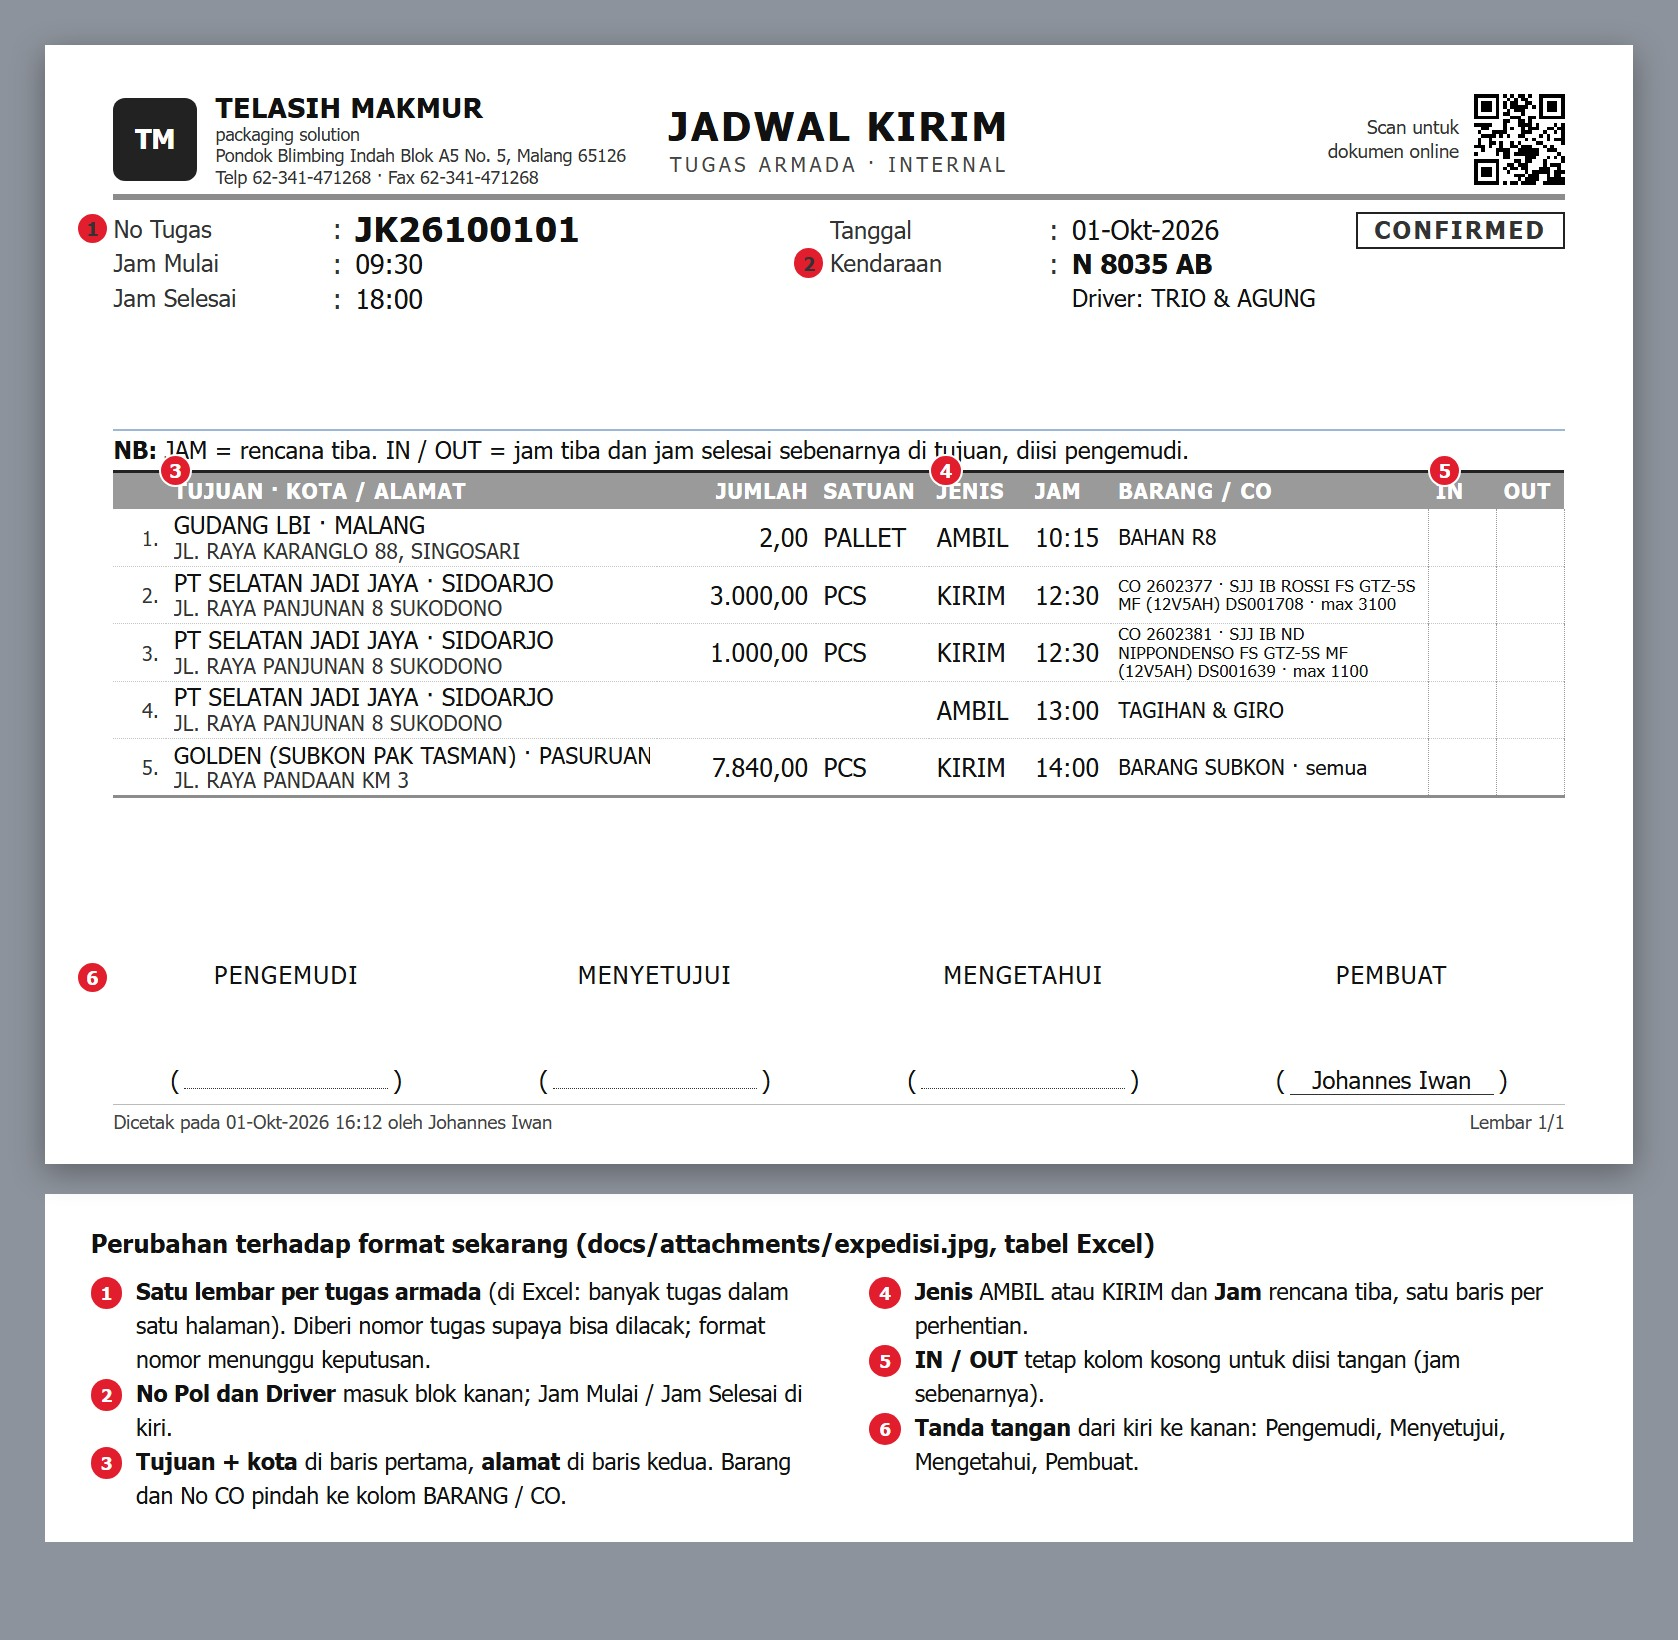
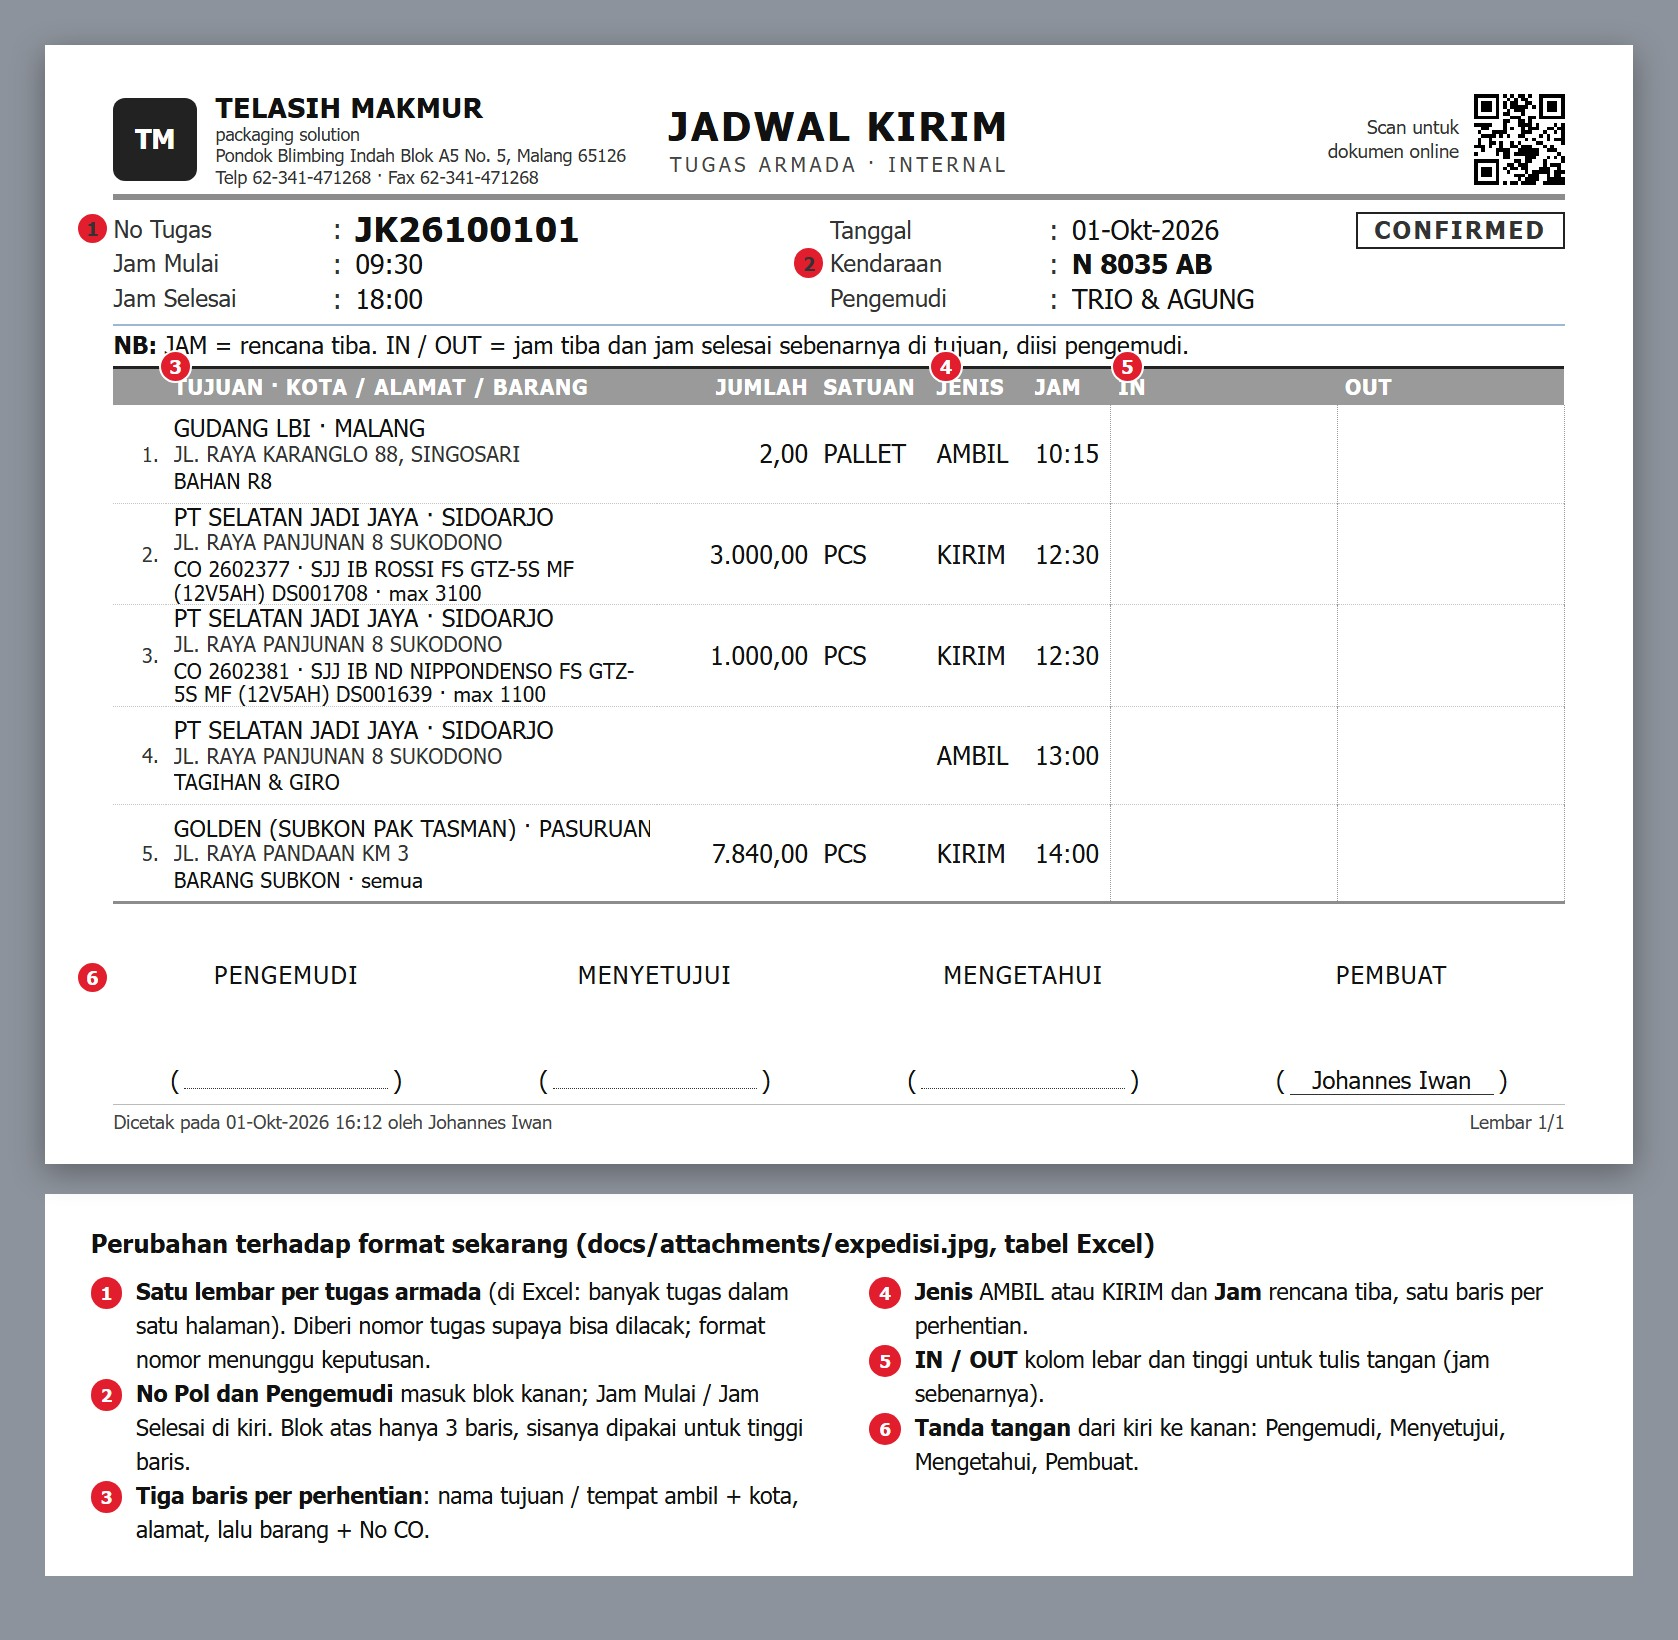
Print mockups: Jadwal Kirim with three text lines per stop and large IN / OUT handwriting columns
User 2026-10-01 (rulebook C.24): place + city, address, then goods on the third line; the empty header rows and the
closing zone are traded for row height (per-document infoRows / tailHeight / rowHeight / rows in PrintDoc).

diff --git a/docs/mockups/print_doc/printdoc.js b/docs/mockups/print_doc/printdoc.js
@@ -27,7 +27,7 @@ const Fmt = {
 };
 
 class PrintDoc {
-    static ROWS = {a5: 5, a4: 22};                  // kapasitas baris per lembar
+    static A5_MAX = 5;                              // aturan kertas: sampai 5 baris = A5 landscape, lebih = A4 portrait
     static EXTRA_WIDTH = {plain: 84, priced: 38};   // mm, lebar zona kolom varian per jenis dokumen
     // Dokumen berharga: HARGA dan SUBTOTAL selalu di posisi yang sama, di kanan zona varian.
     static PRICE_COLS = [{key: 'price', label: 'HARGA', width: 21, type: 'money'}, {key: 'subtotal', label: 'SUBTOTAL', width: 25, type: 'money'}];
@@ -54,6 +54,11 @@ class PrintDoc {
     static receivers = [];              // tanda tangan pihak luar / penerima, paling kiri: [peran, keterangan]
     static internal = ['', '', ''];     // keterangan di bawah Mengetahui, Menyetujui, Pembuat
     static qrHint = 'dokumen online';
+    // Ukuran blok yang boleh ditukar per dokumen: ruang kosong di blok atas / zona penutup dipindah ke tinggi baris.
+    static rows = {a5: 5, a4: 22};      // kapasitas baris per lembar
+    static rowHeight = 7.6;             // mm
+    static infoRows = 6;                // jumlah baris blok field (kiri dan kanan)
+    static tailHeight = 18.5;           // mm, zona catatan + total
     static approved = null;             // tanggal user menandai format ini A (Approved): tidak diubah lagi kecuali user minta
 
     constructor(data) {
@@ -65,7 +70,7 @@ class PrintDoc {
     }
 
     // Aturan kertas: 1-5 baris = A5 landscape, lebih dari 5 = A4 portrait.
-    get paper() { return this.d.rows.length <= PrintDoc.ROWS.a5 ? 'a5' : 'a4'; }
+    get paper() { return this.d.rows.length <= PrintDoc.A5_MAX ? 'a5' : 'a4'; }
 
     get company() { return this.d.ppn > 0 ? PrintDoc.companyPpn : PrintDoc.company; }
 
@@ -87,30 +92,31 @@ class PrintDoc {
     }
 
     info() {
-        const d = this.d, p = d.party ?? {}, slot = i => this.row(this.f.refs[i]);
+        const d = this.d, p = d.party ?? {}, slot = i => this.row(this.f.refs[i]), n = this.f.infoRows, seq = k => Array.from({length: k}, (_, i) => i);
         const line = i => `<div class="f addr"><span></span><i></i><b>${esc(p.lines?.[i])}</b></div>`;
         return `<section class="info">
             <div>
                 <div class="f big" data-k="number"><span>${this.f.numberLabel}</span><i>:</i><b>${esc(d.number)}</b></div>
-                ${[0, 1, 2, 3, 4].map(slot).join('')}
+                ${seq(n - 1).map(slot).join('')}
             </div>
             <div>
                 <div class="f st" data-k="date"><span>Tanggal</span><i>:</i><b>${Fmt.date(d.date)}</b><span class="stamp">${esc(d.status)}</span></div>
                 <div class="f" data-k="party"><span>${this.f.partyLabel}</span><i>:</i><b><strong>${esc(p.name)}</strong>${p.code ? ' &middot; ' + esc(p.code) : ''}</b></div>
-                ${line(0)}${line(1)}${line(2)}${this.row(this.f.side)}
+                ${seq(n - 3).map(line).join('')}${this.row(this.f.side)}
             </div>
         </section>`;
     }
 
     table() {
-        const x = this.cols, n = PrintDoc.ROWS[this.paper], cls = c => c.type === 'money' || c.type === 'int' ? 'num' : c.hand ? 'hd' : c.wrap ? 'wr' : '';
+        const x = this.cols, n = this.f.rows[this.paper], cls = c => c.type === 'money' || c.type === 'int' ? 'num' : c.hand ? 'hd' : c.wrap ? 'wr' : '';
         const head = `<th></th><th>${this.f.nameLabel}</th><th class="num">JUMLAH</th><th>SATUAN</th>` + x.map(c => `<th class="${cls(c)}">${c.label}</th>`).join('');
         const cell = (c, r) => { const v = r[c.key] == null || r[c.key] === '' ? '' : this.val(c, r); return `<td class="${cls(c)}" data-c="${c.key}">${c.wrap ? `<div class="w2">${v}</div>` : v}</td>`; };
         const body = Array.from({length: n}, (_, i) => {
             const r = this.d.rows[i];
             // Nama: 2 baris. Tanpa `sub` nama boleh turun baris; dengan `sub` baris kedua = keterangan kecil.
+            // `sub2` = baris ketiga (hanya untuk dokumen berbaris tinggi, mis. Jadwal Kirim).
             return `<tr${r?.cls ? ` class="${r.cls}"` : ''}><td class="no">${i + 1}.</td>` + (r
-                ? `<td class="nm ${r.sub ? 'two' : ''}"><div class="n1">${esc(r.name)}</div>${r.sub ? `<div class="n2">${esc(r.sub)}</div>` : ''}</td>
+                ? `<td class="nm ${r.sub ? 'two' : ''}"><div class="n1">${esc(r.name)}</div>${r.sub ? `<div class="n2">${esc(r.sub)}</div>` : ''}${r.sub2 ? `<div class="n3">${esc(r.sub2)}</div>` : ''}</td>
                    <td class="num">${r.qty == null ? '' : Fmt.num(r.qty)}</td><td>${esc(r.unit)}</td>` + x.map(c => cell(c, r)).join('')
                 : '<td></td>'.repeat(3 + x.length)) + '</tr>';
         }).join('');
@@ -160,13 +166,14 @@ class PrintDoc {
     }
 
     render() {
-        return `<div class="sheet ${this.paper}">${this.kop()}${this.info()}<p class="nb">${this.f.nb}</p>${this.table()}${this.tail()}${this.sign()}${this.foot()}</div>`;
+        const f = this.f;
+        return `<div class="sheet ${this.paper}" style="--info-rows:${f.infoRows};--rh:${f.rowHeight}mm;--tail:${f.tailHeight}mm">${this.kop()}${this.info()}<p class="nb">${this.f.nb}</p>${this.table()}${this.tail()}${this.sign()}${this.foot()}</div>`;
     }
 
     // Teks sel yang terlalu panjang dikecilkan bertahap sampai muat (batas 6,5 pt), bukan dipotong.
     static fit(root) {
         const shrink = (el, over) => { let s = parseFloat(getComputedStyle(el).fontSize) * .75; while (over() && s > 6.5) el.style.fontSize = (s -= .25) + 'pt'; };
-        root.querySelectorAll('.items .n1, .items .n2, .items .w2').forEach(el => shrink(el, () => el.scrollHeight > el.clientHeight + 1 || el.scrollWidth > el.clientWidth + 1));
+        root.querySelectorAll('.items .n1, .items .n2, .items .n3, .items .w2').forEach(el => shrink(el, () => el.scrollHeight > el.clientHeight + 1 || el.scrollWidth > el.clientWidth + 1));
         root.querySelectorAll('.items td:not(.nm):not(.no):not(.wr)').forEach(td => shrink(td, () => td.scrollWidth > td.clientWidth));
     }
 

diff --git a/docs/mockups/print_doc/samples.js b/docs/mockups/print_doc/samples.js
@@ -86,7 +86,7 @@ const SAMPLES = {
     // Alamat di contoh ini adalah data contoh (di aplikasi: alamat kirim customer / alamat supplier dari master).
     JadwalKirim: {
         data: {...PRINTED, number: 'JK26100101', date: '2026-10-01', status: 'CONFIRMED', start_time: '09:30', finish_time: '18:00', createdBy: 'Johannes Iwan',
-            party: {name: 'N 8035 AB', lines: ['Driver: TRIO & AGUNG']},
+            driver: 'TRIO & AGUNG', party: {name: 'N 8035 AB'},
             rows: [
                 {kind: 'AMBIL', time: '10:15', place: 'GUDANG LBI', city: 'MALANG', address: 'JL. RAYA KARANGLO 88, SINGOSARI', item: 'BAHAN R8', qty: 2, unit: 'PALLET'},
                 {kind: 'KIRIM', time: '12:30', place: 'PT SELATAN JADI JAYA', city: 'SIDOARJO', address: 'JL. RAYA PANJUNAN 8 SUKODONO', item: 'SJJ IB ROSSI FS GTZ-5S MF (12V5AH) DS001708', co_no: '2602377', qty: 3000, unit: 'PCS', note: 'max 3100'},
@@ -94,7 +94,7 @@ const SAMPLES = {
                 {kind: 'AMBIL', time: '13:00', place: 'PT SELATAN JADI JAYA', city: 'SIDOARJO', address: 'JL. RAYA PANJUNAN 8 SUKODONO', item: 'TAGIHAN & GIRO'},
                 {kind: 'KIRIM', time: '14:00', place: 'GOLDEN (SUBKON PAK TASMAN)', city: 'PASURUAN', address: 'JL. RAYA PANDAAN KM 3', item: 'BARANG SUBKON', qty: 7840, unit: 'PCS', note: 'semua'}]},
         alt: {...PRINTED, number: 'JK26100102', date: '2026-10-01', status: 'CONFIRMED', start_time: '07:45', finish_time: '17:00', createdBy: 'Johannes Iwan',
-            party: {name: 'N 8381 BK', lines: ['Driver: PUJI & DWI']},
+            driver: 'PUJI & DWI', party: {name: 'N 8381 BK'},
             rows: [
                 {kind: 'AMBIL', time: '08:00', place: 'GUDANG LBI (RIT 1)', city: 'MALANG', address: 'JL. RAYA KARANGLO 88, SINGOSARI', item: 'BAHAN R8', qty: 6, unit: 'PALLET'},
                 {kind: 'KIRIM', time: '09:15', place: 'TELASIH MAKMUR', city: 'MALANG', address: 'PONDOK BLIMBING INDAH BLOK A5 NO. 5', item: 'BAHAN R8 DARI GUDANG LBI (BONGKAR)', qty: 6, unit: 'PALLET'},
@@ -105,13 +105,13 @@ const SAMPLES = {
                 {kind: 'KIRIM', time: '15:30', place: '93 DONUT', city: 'MALANG', address: 'PERUMAHAN CITRA KAYANE RESIDENCE', item: 'JD BOX DONAT UK 20 X 20 X 6 CM (DS000)', co_no: '2602282', qty: 3000, unit: 'PCS', note: 'semua'}]},
         dev: {
             title: 'Perubahan terhadap format sekarang (docs/attachments/expedisi.jpg, tabel Excel)',
-            marks: [[1, '[data-k=number]', -5, 0], [2, '[data-k=party]', -5, 0], [3, 'thead th:nth-child(2)', -1, -2.5], [4, 'thead th:nth-child(5)', 0, -2.5], [5, 'thead th:nth-child(8)', 0, -2.5], [6, '.sign', -5, 0]],
+            marks: [[1, '[data-k=number]', -5, 0], [2, '[data-k=party]', -5, 0], [3, 'thead th:nth-child(2)', -1, -2.5], [4, 'thead th:nth-child(5)', 0, -2.5], [5, 'thead th:nth-child(7)', 0, -2.5], [6, '.sign', -5, 0]],
             legend: [
                 '<b>Satu lembar per tugas armada</b> (di Excel: banyak tugas dalam satu halaman). Diberi nomor tugas supaya bisa dilacak; format nomor menunggu keputusan.',
-                '<b>No Pol dan Driver</b> masuk blok kanan; Jam Mulai / Jam Selesai di kiri.',
-                '<b>Tujuan + kota</b> di baris pertama, <b>alamat</b> di baris kedua. Barang dan No CO pindah ke kolom BARANG / CO.',
+                '<b>No Pol dan Pengemudi</b> masuk blok kanan; Jam Mulai / Jam Selesai di kiri. Blok atas hanya 3 baris, sisanya dipakai untuk tinggi baris.',
+                '<b>Tiga baris per perhentian</b>: nama tujuan / tempat ambil + kota, alamat, lalu barang + No CO.',
                 '<b>Jenis</b> AMBIL atau KIRIM dan <b>Jam</b> rencana tiba, satu baris per perhentian.',
-                '<b>IN / OUT</b> tetap kolom kosong untuk diisi tangan (jam sebenarnya).',
+                '<b>IN / OUT</b> kolom lebar dan tinggi untuk tulis tangan (jam sebenarnya).',
                 '<b>Tanda tangan</b> dari kiri ke kanan: Pengemudi, Menyetujui, Mengetahui, Pembuat.',
             ],
         },

diff --git a/docs/mockups/print_doc/printdoc.css b/docs/mockups/print_doc/printdoc.css
@@ -25,7 +25,7 @@ body{background:#8d939c;padding:6mm;font-family:Tahoma,Verdana,"Segoe UI",sans-s
 
 /* 2. Blok field: 2 kolom x 6 baris tetap. Kiri baris 1 = nomor dokumen; kanan baris 1 = tanggal + status. */
 .info{display:grid;grid-template-columns:1fr 1.12fr;gap:0 8mm;padding:1.5mm 0 1.1mm;border-bottom:.3mm solid #9db7d6}
-.info>div{display:grid;grid-template-rows:repeat(6,4.6mm)}
+.info>div{display:grid;grid-template-rows:repeat(var(--info-rows,6),4.6mm)}
 .f{display:grid;grid-template-columns:29mm 3mm 1fr;align-items:center;min-width:0}
 .f>span{font-size:9pt;color:#333;white-space:nowrap}
 .f>i{font-style:normal;color:#333}
@@ -43,7 +43,7 @@ body{background:#8d939c;padding:6mm;font-family:Tahoma,Verdana,"Segoe UI",sans-s
 /* 4. Tabel: No | Nama | Jumlah | Satuan selalu di posisi sama; zona varian di kanan (+ Harga, Subtotal untuk dokumen berharga). */
 table.items{width:100%;border-collapse:collapse;border-top:.5mm solid #222;border-bottom:.5mm solid #8c8c8c;table-layout:fixed}
 .items th{background:#9a9a9a;color:#fff;font-weight:700;font-size:8pt;height:5mm;padding:0 1mm;text-align:left;letter-spacing:.03em;white-space:nowrap}
-.items td{height:7.6mm;padding:0 1mm;font-size:9.5pt;vertical-align:middle;white-space:nowrap;overflow:hidden}
+.items td{height:var(--rh,7.6mm);padding:0 1mm;font-size:9.5pt;vertical-align:middle;white-space:nowrap;overflow:hidden}
 .items tbody tr+tr td{border-top:.15mm dotted #c4c4c4}
 .items td.no{text-align:right;font-size:7.5pt;color:#333}
 .items .num{text-align:right}
@@ -58,9 +58,11 @@ table.items{width:100%;border-collapse:collapse;border-top:.5mm solid #222;borde
 .n1{font-size:9pt;line-height:1.12;max-height:2.3em;overflow:hidden}
 .nm.two .n1{white-space:nowrap;max-height:1.15em}
 .n2{font-size:8pt;line-height:1.15;color:#333;white-space:nowrap;overflow:hidden}
+/* Baris ketiga (barang), boleh 2 baris; huruf dikecilkan seperlunya oleh PrintDoc.fit() */
+.n3{font-size:8pt;line-height:1.1;max-height:2.25em;overflow:hidden;margin-top:.3mm}
 
 /* 5. Zona penutup: catatan kiri, kotak total kanan (tinggi tetap) */
-.tail{display:grid;grid-template-columns:1fr 62mm;gap:6mm;height:18.5mm;padding-top:1.2mm;overflow:hidden}
+.tail{display:grid;grid-template-columns:1fr 62mm;gap:6mm;height:var(--tail,18.5mm);padding-top:1.2mm;overflow:hidden}
 .notes{font-size:8.5pt;line-height:1.3}
 .notes b{font-weight:700}
 .tot{font-size:9pt}

diff --git a/docs/mockups/print_doc/documents.js b/docs/mockups/print_doc/documents.js
@@ -108,8 +108,9 @@ PrintDoc.register(class PurchaseOrder extends PrintDoc {
 });
 
 // Acuan kertas: docs/attachments/expedisi.jpg (Jadwal Kirim; satu lembar per tugas armada).
-// Satu baris = satu perhentian: JENIS (AMBIL / KIRIM), JAM rencana tiba, tujuan + KOTA (baris 1) dan ALAMAT (baris 2),
-// barang + No CO di kolom BARANG / CO (keputusan user 2026-10-01: ambil dan kirim, jam, kota, alamat harus ada).
+// Satu baris = satu perhentian, TIGA baris teks: nama tujuan / tempat ambil + kota, alamat, lalu barang + No CO.
+// Ruang kosong blok atas (3 baris field saja) dan zona penutup dipindah ke tinggi baris, dan kolom barang dihapus,
+// supaya kolom tulis tangan IN / OUT besar (keputusan user 2026-10-01).
 PrintDoc.register(class JadwalKirim extends PrintDoc {
     static title = 'JADWAL KIRIM';
     static subtitle = 'Tugas Armada &middot; Internal';
@@ -119,15 +120,19 @@ PrintDoc.register(class JadwalKirim extends PrintDoc {
         {key: 'finish_time', label: 'Jam Selesai'},
     ];
     static partyLabel = 'Kendaraan';
+    static side = {key: 'driver', label: 'Pengemudi'};
     static nb = '<b>NB:</b>&nbsp;JAM = rencana tiba. IN / OUT = jam tiba dan jam selesai sebenarnya di tujuan, diisi pengemudi.';
-    static nameLabel = 'TUJUAN &middot; KOTA / ALAMAT';
-    static extra = [{key: 'kind', label: 'JENIS', width: 13}, {key: 'time', label: 'JAM', width: 11}, {key: 'goods', label: 'BARANG / CO', width: 42, wrap: true},
-        {key: 'in', label: 'IN', width: 9, hand: true}, {key: 'out', label: 'OUT', width: 9, hand: true}];
+    static nameLabel = 'TUJUAN &middot; KOTA / ALAMAT / BARANG';
+    static extra = [{key: 'kind', label: 'JENIS', width: 13}, {key: 'time', label: 'JAM', width: 11}, {key: 'in', label: 'IN', width: 30, hand: true}, {key: 'out', label: 'OUT', width: 30, hand: true}];
     static receivers = [['Pengemudi', '']];
+    static infoRows = 3;
+    static tailHeight = 2;
+    static rowHeight = 13;
+    static rows = {a5: 5, a4: 15};
 
     constructor(data) {
         super({...data, rows: data.rows.map(r => ({...r, name: [r.place, r.city].filter(Boolean).join(' · '), sub: r.address,
-            goods: [r.co_no && 'CO ' + r.co_no, r.item, r.note].filter(Boolean).join(' · ')}))});
+            sub2: [r.co_no && 'CO ' + r.co_no, r.item, r.note].filter(Boolean).join(' · ')}))});
     }
 });
 

diff --git a/docs/globaluserrules.md b/docs/globaluserrules.md
@@ -204,7 +204,8 @@
     **Cetakan CPDEL (Customer Plan Delivery) wajib ada, tanpa harga, dan split harus jelas** (user 2026-10-01): satu
     baris per kiriman; baris hasil split diberi garis tebal di kiri, kolom Kiriman "SPLIT 1/3", dan ringkasan Split di
     bawah tabel. **Jadwal Kirim wajib memuat Ambil / Kirim, jam, kota, dan alamat** (user 2026-10-01): satu baris per
-    perhentian; tujuan + kota di baris pertama, alamat di baris kedua.
+    perhentian, **tiga baris teks**: nama tujuan / tempat ambil + kota, alamat, lalu barang yang dikirim / diambil (+ No
+    CO). Ruang kosong blok atas dipakai untuk tinggi baris, dan **kolom tulis tangan IN / OUT dibuat besar**.
 25. **Form ProDev berlatar putih — user 2026-10-01:** workbench Imposition (dulu gelap/navy) memakai **latar putih** seperti
     layar lain, warnanya lewat token tema DevLib (bukan hex). Tata letak dan isi tidak berubah; area gambar berlatar abu muda
     supaya lembar cetak (putih) tetap terlihat. Pratinjau & cetak Master Card tidak berubah.
